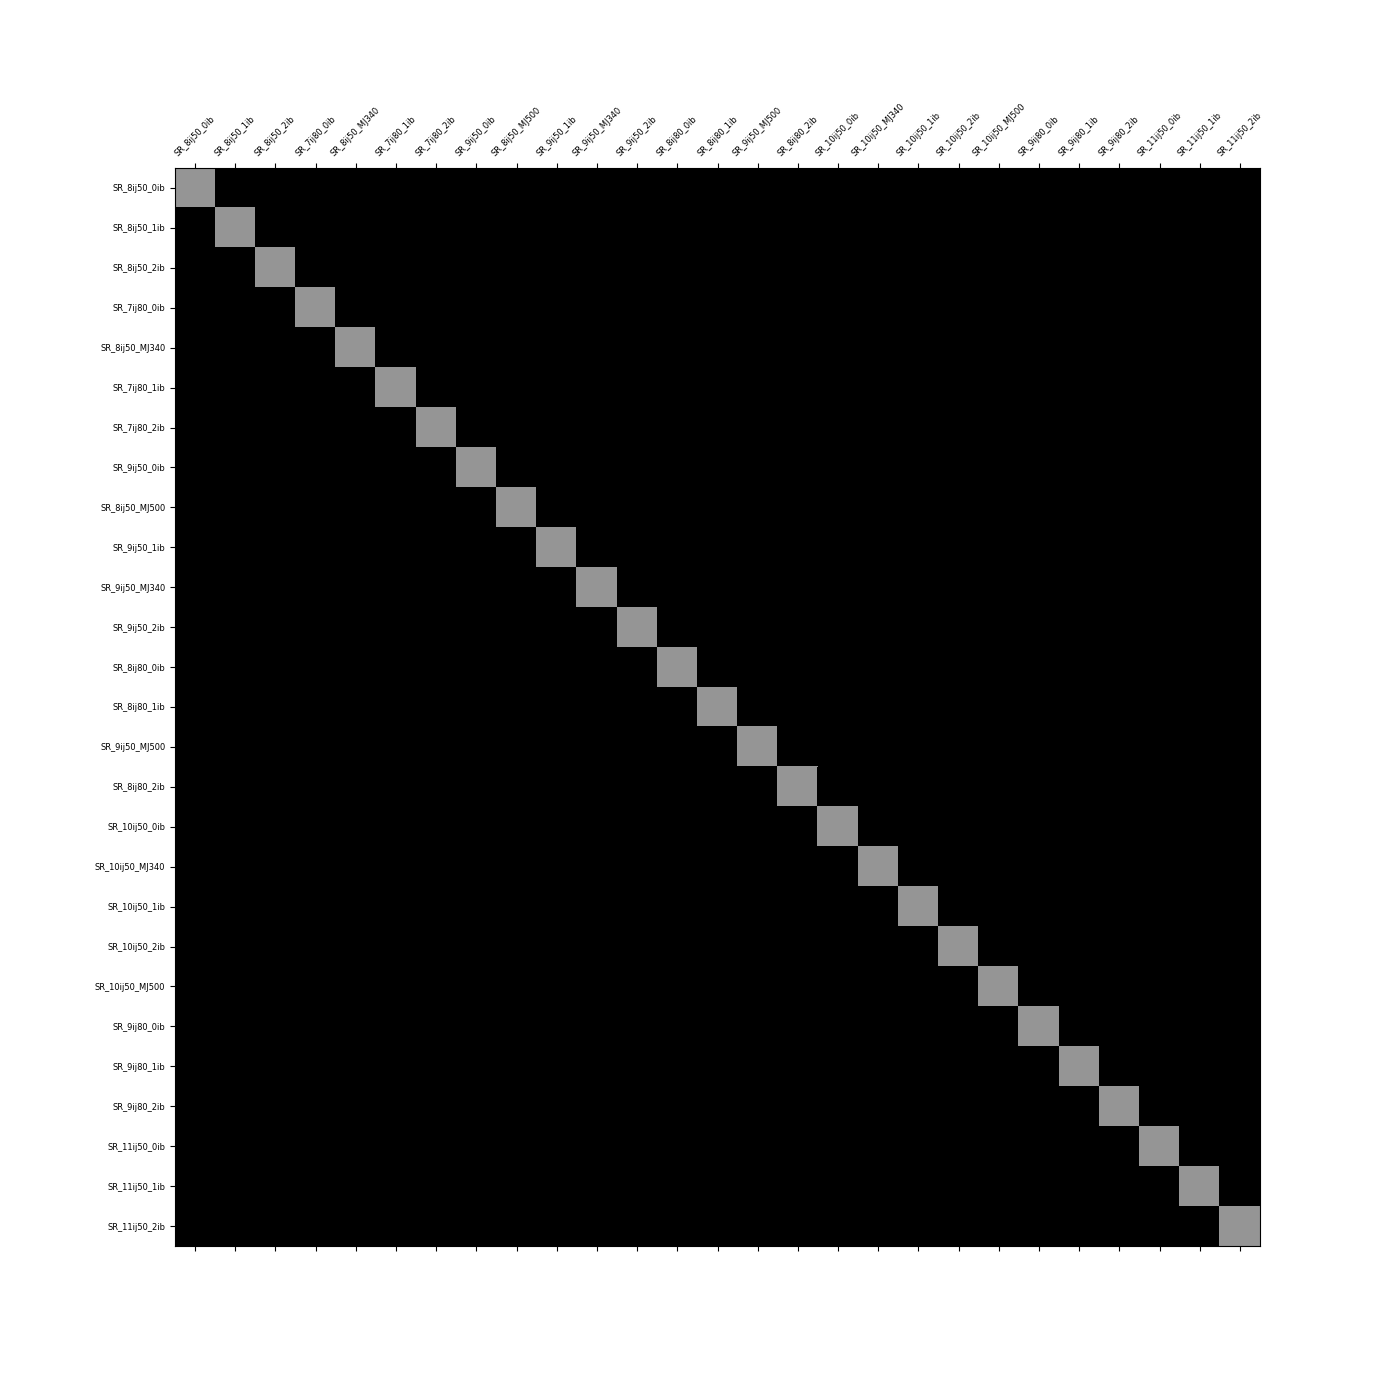
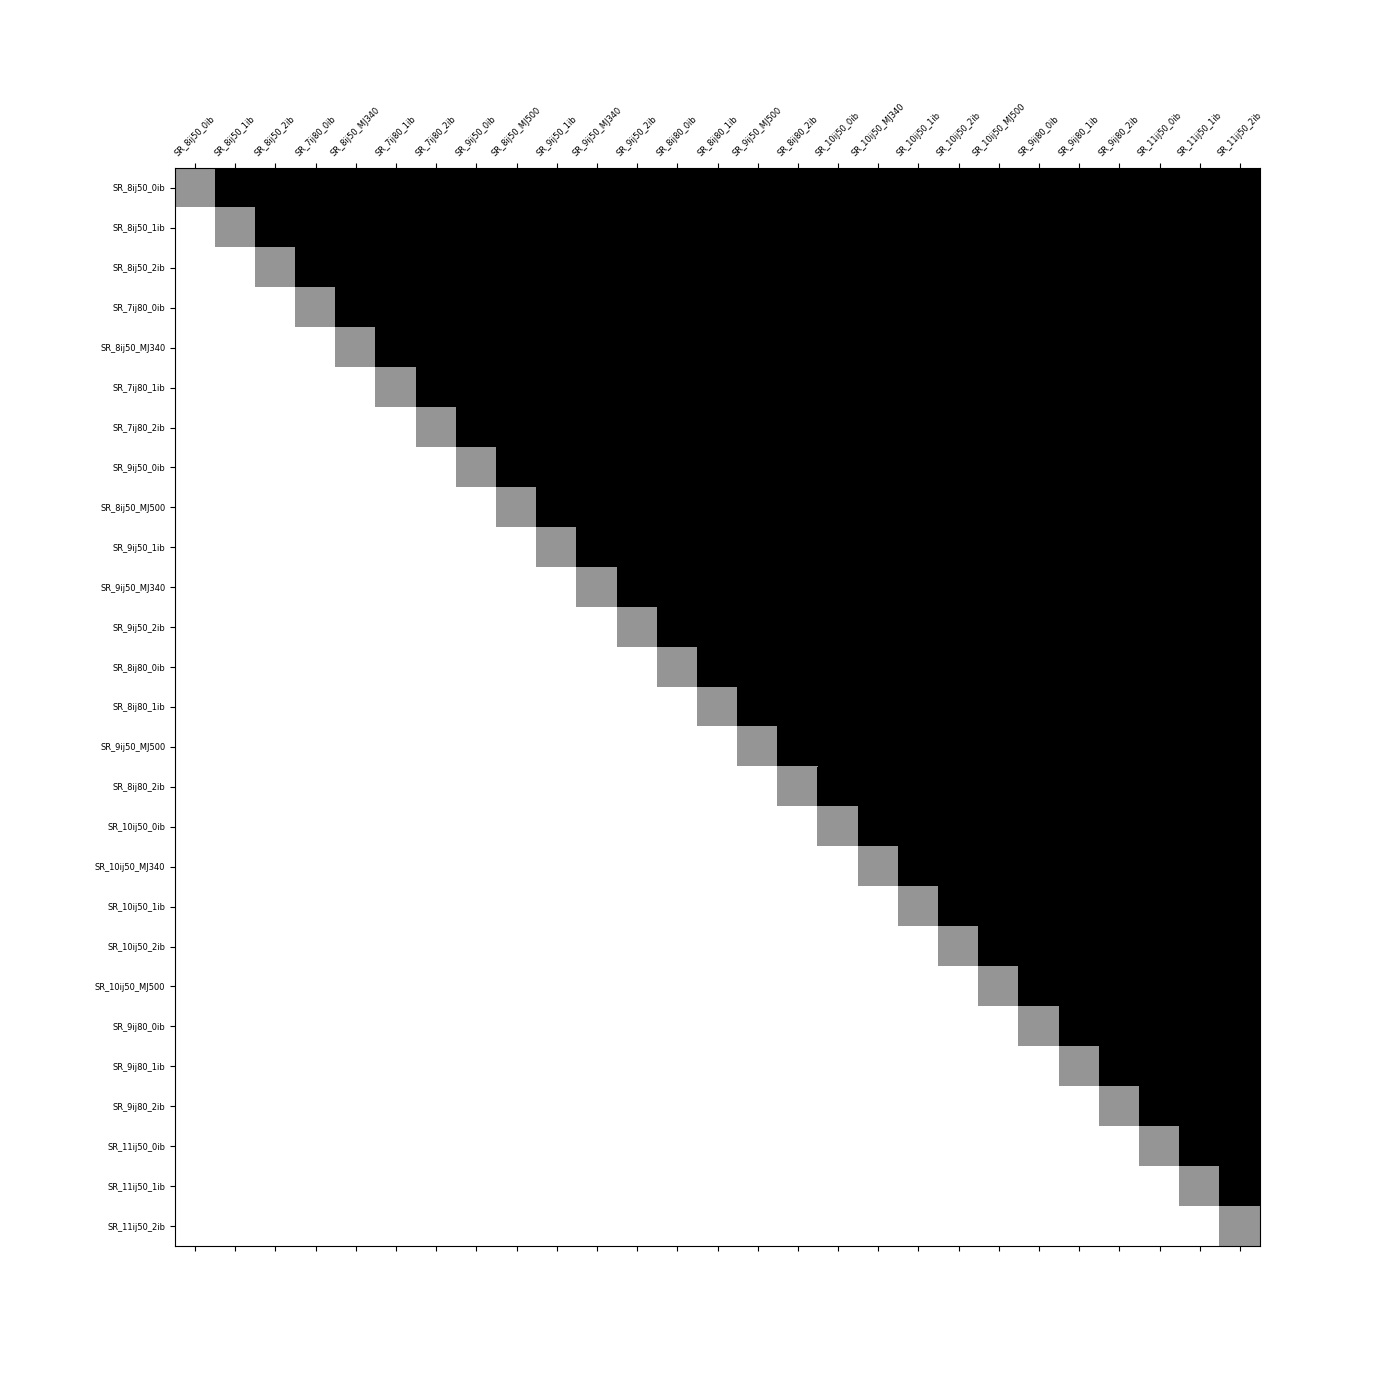
Code refactoring.

Changed region(s): [[0.1229, 0.1229, 0.8907, 0.8907]]

diff --git a/src/utils/plotting.py b/src/utils/plotting.py
@@ -13,20 +13,19 @@ import numpy as np
 
 def corr_matrix_plotting(correlation_matrix: np.array,
                          column_names: List[str],
-                         show: bool = False) -> None:
+                         threshold: float) -> None:
     """Generates a figure of the correlation matrix showing
     which SR regions correlate.
 
     Args:
         correlation_matrix (np.array): Pearson Correlation Coeff.
         column_names (List[str]): Names of the SR regions.
-        show (bool, optional): Shows figure while
-        running the analysis run. Defaults to False.
     """
-    # from binary format into float format such that
-    # diagonal elements can be painted grey (self correlating SRs),
+
+    # diagonal elements are painted grey (self correlating SRs),
     # white for SR correlations below threshold and black for above
-    correlation_matrix = np.array(correlation_matrix, dtype=np.float32)
+    correlation_matrix = np.array(correlation_matrix < threshold,
+                                  dtype=np.float32)
     # indices of lower triangle and set them to 1
     indices_lower = np.tril_indices_from(correlation_matrix)
     correlation_matrix[indices_lower] = 1
@@ -41,7 +40,8 @@ def corr_matrix_plotting(correlation_matrix: np.array,
     plt.rc('font', **font)
     fig, ax = plt.subplots(figsize=(14, 14))
 
-    pcol = ax.pcolor(correlation_matrix, cmap=plt.cm.Greys)
+    ax.pcolor(correlation_matrix,
+              cmap=plt.cm.Greys)
 
     # put the major ticks at the middle of each cell
     ax.set_xticks(np.arange(len(column_names)) + 0.5,
@@ -60,31 +60,26 @@ def corr_matrix_plotting(correlation_matrix: np.array,
 
     fig.savefig(str(pathlib.Path(__file__).parent.resolve()) +
                 "/../../results/correlations_threshold.png")
-
-    if show is True:
-        plt.show()
     return
 
 
-def correlation_free_entries_marking(binary_correlation_matrix: np.array,
+def correlation_free_entries_marking(correlation_matrix: np.array,
                                      proposed_paths: Dict,
                                      column_names: List[str],
-                                     show: bool = False):
+                                     threshold: float):
     """Generates a figure that holds the binary correlation
     matrix as well as it colors the path of the uncorrolated
     SR in light green color.
 
     Args:
-        binary_correlation_matrix (np.array): Pearson Correlation Coeff.
+        Correlation_matrix (np.array): Correlation matrix.
         proposed_paths (Dict): Proposed paths py TACO.
         column_names (List[str]): SR names.
-        show (bool, optional): Shows figure while
-        running the analysis run. Defaults to False.
     """
-    # from binary format into float format such that
-    # diagonal elements can be painted grey (self correlating SRs),
+    # diagonal elements are painted grey (self correlating SRs),
     # white for SR correlations below threshold and black for above
-    correlation_matrix = np.array(binary_correlation_matrix, dtype=np.float32)
+    correlation_matrix = np.array(correlation_matrix < threshold,
+                                  dtype=np.float32)
     # indices of lower triangle and set them to 1
     indices_lower = np.tril_indices_from(correlation_matrix)
     correlation_matrix[indices_lower] = 1
@@ -100,7 +95,8 @@ def correlation_free_entries_marking(binary_correlation_matrix: np.array,
         correlation_matrix[comb[0], comb[1]] = -1
 
     cmap = matplotlib.cm.Greys
-    cmap.set_under(color='green', alpha=0.4)
+    cmap.set_under(color='green',
+                   alpha=0.4)
 
     font = {'size': 6}
 
@@ -108,7 +104,9 @@ def correlation_free_entries_marking(binary_correlation_matrix: np.array,
     plt.rc('font', **font)
     fig, ax = plt.subplots(figsize=(14, 14))
 
-    pcol = ax.pcolor(correlation_matrix, cmap=cmap, vmin=-0.001)
+    ax.pcolor(correlation_matrix,
+              cmap=cmap,
+              vmin=-0.001)
 
     # put the major ticks at the middle of each cell
     ax.set_xticks(np.arange(len(column_names)) + 0.5,
@@ -127,7 +125,4 @@ def correlation_free_entries_marking(binary_correlation_matrix: np.array,
 
     fig.savefig(str(pathlib.Path(__file__).parent.resolve()) +
                 "/../../results/correlations_path.png")
-
-    if show is True:
-        plt.show()
     return

diff --git a/src/main.py b/src/main.py
@@ -18,7 +18,7 @@ from exceptions.exceptions import (InvalidArgumentError,
                                    SAFileNotFoundError, SAWrongArgument)
 from utils.functions import (calc_num_combs, calc_SR_sensitivity,
                              df_mapping_dict, indices_to_SR_names,
-                             sort_df_SR_dep_weights, threshold_corr_matrix)
+                             sort_df_SR_dep_weights)
 from utils.parsing import build_parser, check_parser_input_files
 from utils.path_finder import PathFinder
 from utils.plotting import (corr_matrix_plotting,
@@ -91,10 +91,9 @@ def main() -> int:
 
     # 3.1) CONCATENATION OF EVENT SIGNAL REGION MATRICES
 
+    # preprocess input
     SR_names: List[str]
     event_SR_matrix_combined: np.array
-
-    # preprocess input
     event_SR_matrix_combined, SR_names = preprocess_input(
         analysis_names=analysis_names,
         file_paths=file_paths)
@@ -184,7 +183,8 @@ def main() -> int:
         # change to sorted version
         non_zero_column_names = df_event_SR.columns.to_list()
 
-    combs = combinations_with_replacement(non_zero_column_names, r=2)
+    combs = combinations_with_replacement(iterable=non_zero_column_names,
+                                          r=2)
     print("\nTo do are a total of "
           f"{calc_num_combs(len(non_zero_column_names))} combinations.\n")
 
@@ -216,19 +216,7 @@ def main() -> int:
         args=(df_correlation,))
     process_save_df_corr.start()
 
-    corr_matrix_binary = threshold_corr_matrix(
-        correlation_matrix=correlation_matrix)
-
-    process_corr_matrix_plotting: Process
-    if parser_dict["no_plots"] is not True:
-        process_corr_matrix_plotting: Process = Process(
-            target=corr_matrix_plotting,
-            args=(corr_matrix_binary, non_zero_column_names))
-        process_corr_matrix_plotting.start()
-
-    # 7) GRAPH ALGORITHM
-    # IMPORTANT: These algorithms are taken from the TACO SW.
-    # initialize the path finder
+    # get threshold from command line
     threshold: float
     if parser_dict["threshold"] is None:
         threshold = 0.01
@@ -242,6 +230,18 @@ def main() -> int:
             print("\nThe argument for the threshold is not valid.")
             return 9
 
+    process_corr_matrix_plotting: Process
+    if parser_dict["no_plots"] is not True:
+        process_corr_matrix_plotting: Process = Process(
+            target=corr_matrix_plotting,
+            args=(correlation_matrix,
+                  non_zero_column_names,
+                  threshold))
+        process_corr_matrix_plotting.start()
+
+    # 7) GRAPH ALGORITHM
+    # IMPORTANT: These algorithms are taken from the TACO SW.
+    # initialize the path finder
     path_finder: PathFinder = PathFinder(
         correlations=correlation_matrix,
         threshold=threshold,
@@ -262,9 +262,10 @@ def main() -> int:
         # plot the top=1 path into binary matrix
         process_matrix_path_plotting: Process = Process(
             target=correlation_free_entries_marking,
-            args=(corr_matrix_binary,
+            args=(correlation_matrix,
                   proposed_paths,
-                  non_zero_column_names))
+                  non_zero_column_names,
+                  threshold))
         process_matrix_path_plotting.start()
 
     # change indices to SR names
@@ -284,9 +285,9 @@ def main() -> int:
     if parser_dict["no_plots"] is not True:
         process_corr_matrix_plotting.join()
         process_matrix_path_plotting.join()
-        print("\nAll 2 processes joined.")
-    else:
         print("\nAll 4 processes joined.")
+    else:
+        print("\nAll 2 processes joined.")
 
     # 9) SUMMARY
     summary(STARTTIME=STARTTIME)

diff --git a/src/utils/preprocessing.py b/src/utils/preprocessing.py
@@ -3,6 +3,7 @@ Provides functions for the main program that are used for checking
 and preprocessing the input.
 """
 import os
+import time
 from typing import List
 
 import numpy as np
@@ -71,8 +72,6 @@ def preprocess_input(analysis_names: List[str],
     """
     # list for storing events of corresponding SR
     event_SR_matrix_list: List[np.array] = []
-    # names of the signal regions
-    SR_names: List[str] = []
     print("Files preprocessing:\n")
     for _, file_path in enumerate(tqdm(file_paths)):
         # opening the file
@@ -91,7 +90,6 @@ def preprocess_input(analysis_names: List[str],
             # iterating through signal regions to extract the
             # arrays and store row wise
             for sr_idx, sr in enumerate(signal_regions):
-                SR_names.append(sr)
                 events[:, sr_idx] = np.array(
                     ttree_arrays[sr], dtype=np.float32)
             # list of matrices
@@ -106,4 +104,4 @@ def preprocess_input(analysis_names: List[str],
           "Number of SRs: "
           f"{event_SR_matrix_combined.shape[1] - len(analysis_names)*2}.")
 
-    return event_SR_matrix_combined, SR_names
+    return event_SR_matrix_combined, signal_regions

diff --git a/src/utils/functions.py b/src/utils/functions.py
@@ -54,35 +54,6 @@ def check_sufficient_statistics(SR_SR_matrix: np.array,
     return
 
 
-def calc_pearson_corr(SR_SR_matrix: np.array) -> np.array:
-    """Calculation of the Pearson correlation coefficient
-    of the signal region matrix.
-
-    Args:
-        SR_SR_matrix (np.array): Signal region matrix that
-        have entries that share events.
-
-    Returns:
-        np.array: Coefficient matrix.
-    """
-    return np.corrcoef(SR_SR_matrix, dtype=np.float32)
-
-
-def threshold_corr_matrix(correlation_matrix: np.array,
-                          threshold: float = 0.01) -> np.array:
-    """Compute correlation matrix below certain threshold.
-
-    Args:
-        correlation_matrix (np.array): Pearson correlations coefficients
-        threshold (float, optional): Threshold for allowed correlation.
-        Defaults to 0.2.
-
-    Returns:
-        np.array: Allowed correlation in binary format.
-    """
-    return correlation_matrix > threshold
-
-
 def calc_SR_sensitivity(df_event_SR: pd.DataFrame,
                         method: str = "simple",
                         calculate: bool = True) -> List[float]:
